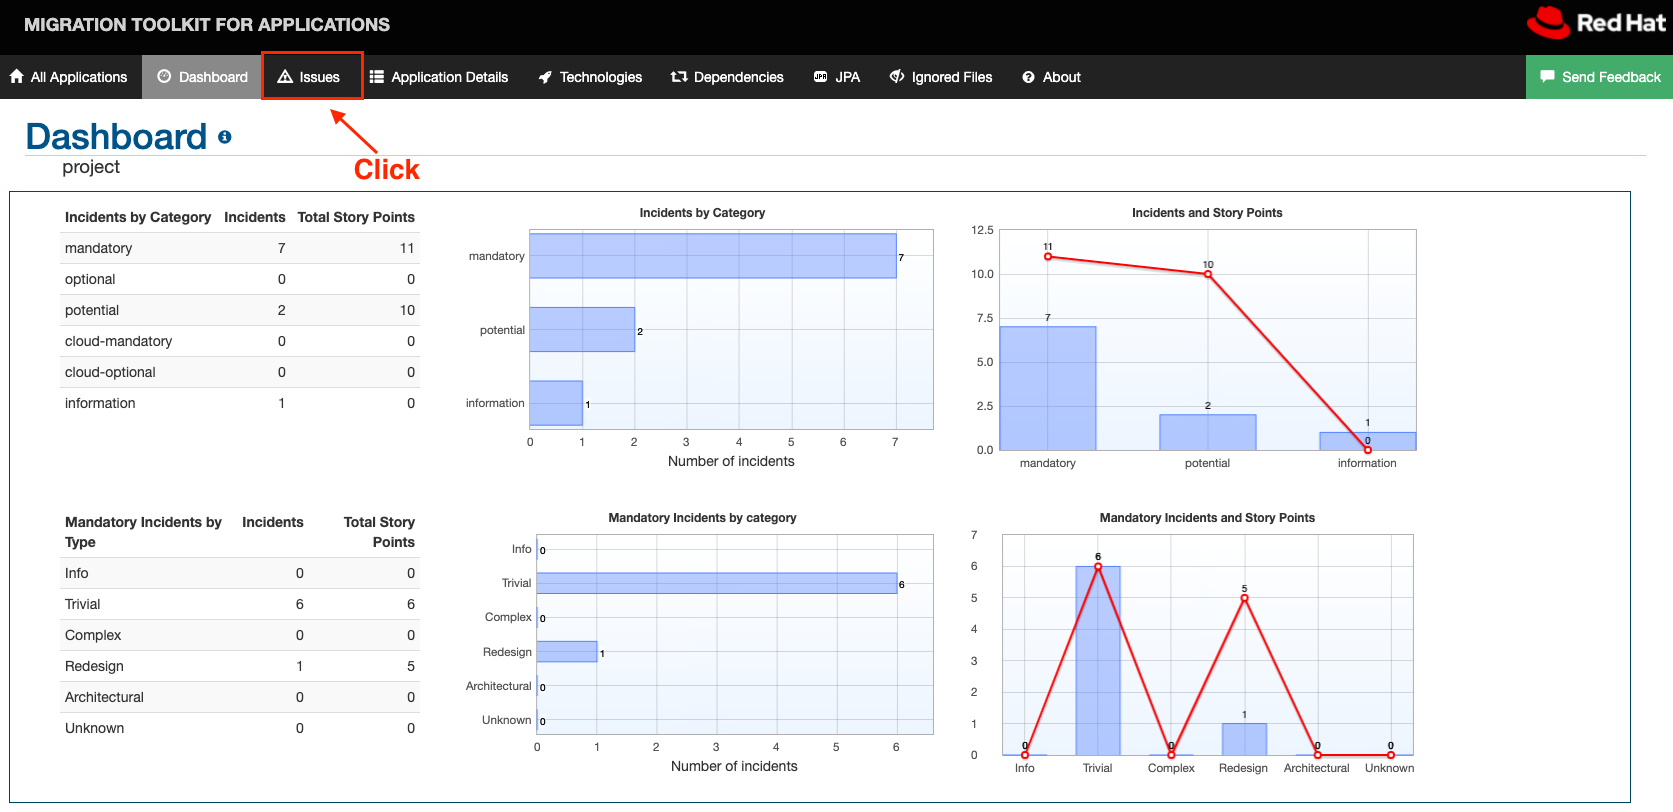
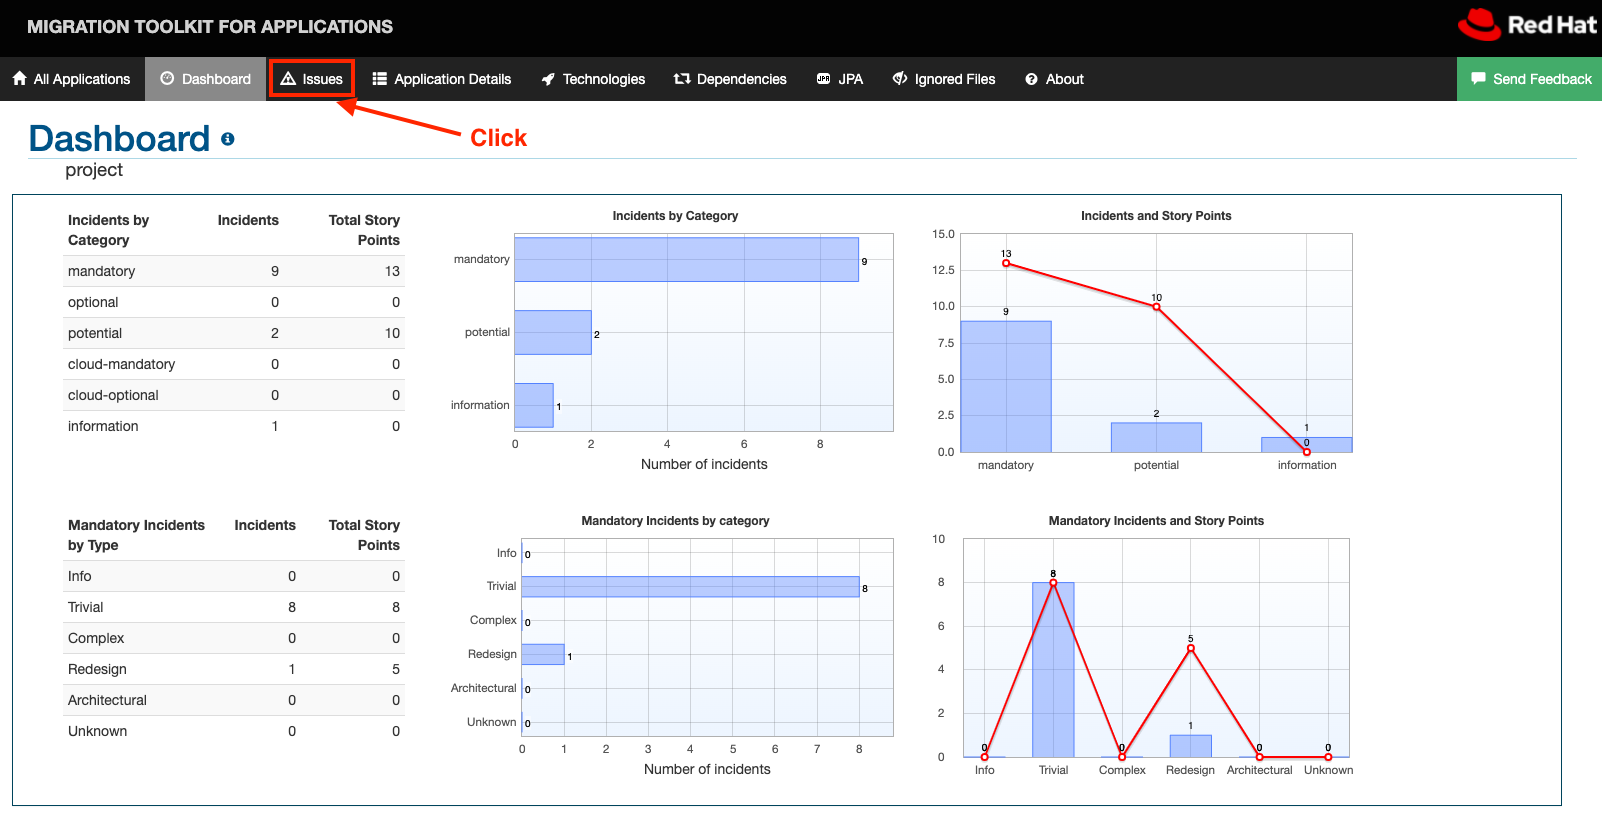
Update MTA config to catch more rules

diff --git a/README.md b/README.md
@@ -148,7 +148,7 @@ While we're in `pom.xml` we may as well fix all the issues related to it.
 
 1. In your editor/IDE, open [`pom.xml`](pom.xml)
 2. Find the `<parent>` section and remove it
-3. In the `<properties>` section, add `<quarkus.platform.version>2.6.1.Final</quarkus.platform.version>`
+3. In the `<properties>` section, add `<quarkus.platform.version>2.6.2.Final</quarkus.platform.version>`
 4. After the `<properties>` section but before the `<dependencies>` section, add the following block:
    ```xml
    <dependencyManagement>
@@ -218,59 +218,26 @@ While we're in `pom.xml` we may as well fix all the issues related to it.
      <artifactId>quarkus-smallrye-openapi</artifactId>
    </dependency>
    ```
-
+   
 8. The next issue is `Replace the Spring Boot Actuator dependency with Quarkus Smallrye Health extension`.
 
    In `pom.xml`, find
-    ```xml
-    <dependency>
-      <groupId>org.springframework.boot</groupId>
-      <artifactId>spring-boot-starter-actuator</artifactId>
-    </dependency>
-    ```
+      ```xml
+      <dependency>
+        <groupId>org.springframework.boot</groupId>
+        <artifactId>spring-boot-starter-actuator</artifactId>
+      </dependency>
+      ```
 
    and, according to the [Quarkus - SmallRye Health Guide](https://quarkus.io/guides/smallrye-health), replace it with
-    ```xml
-    <dependency>
-      <groupId>io.quarkus</groupId>
-      <artifactId>quarkus-smallrye-health</artifactId>
-    </dependency>
-    ```
+      ```xml
+      <dependency>
+        <groupId>io.quarkus</groupId>
+        <artifactId>quarkus-smallrye-health</artifactId>
+      </dependency>
+      ```
 
-9. The next issue is `Spring component spring-boot-starter-test requires investigation`.
-
-   In `pom.xml`, find
-     ```xml
-     <dependency>
-       <groupId>org.springframework.boot</groupId>
-       <artifactId>spring-boot-starter-test</artifactId>
-       <scope>test</scope>
-     </dependency>
-     ```
-
-   and, according to the [Quarkus testing guide](https://quarkus.io/guides/getting-started-testing), replace it with
-     ```xml
-     <dependency>
-       <groupId>io.quarkus</groupId>
-       <artifactId>quarkus-junit5</artifactId>
-       <scope>test</scope>
-     </dependency>
-     ```
-
----
-
-Some issues that weren't caught by the tool but also need to be fixed:
-1. [Starting with Quarkus version 2.5, a user must choose the underlying JAX-RS engine](https://github.com/quarkusio/quarkus/wiki/Migration-Guide-2.5#spring-web). The RESTEasy Reactive extension has better performance than the RESTEasy Classic extension, so we will use that. See [RESTEasy Reactive - To block or not to block](https://quarkus.io/blog/resteasy-reactive-smart-dispatch/), [Massive performance without headaches](https://quarkus.io/blog/resteasy-reactive-faq/), and [A UI thread and a worker thread walk into a bar: a microbenchmark story](https://quarkus.io/blog/io-thread-benchmark/) for more information.
-
-   In `pom.xml`, add the `quarkus-resteasy-reactive-jackson` extension to the `<dependencies>` section:
-   ```xml
-   <dependency>
-     <groupId>io.quarkus</groupId>
-     <artifactId>quarkus-resteasy-reactive-jackson</artifactId>
-   </dependency>
-   ```
-
-3. The `io.micrometer:micrometer-registry-prometheus` dependency. This needs to be swapped for the [Quarkus Micrometer extension](http://quarkus.io/guides/micrometer).
+9. The next issue is `Replace the 'micrometer-registry-prometheus' dependency with Quarkus 'quarkus-micrometer-registry-prometheus' extension`. [Micrometer Metrics](https://micrometer.io/) are used in Quarkus as well as in Spring Boot, but Quarkus applications need to use the [Quarkus Micrometer Metrics Extension](https://quarkus.io/guides/micrometer).
 
    In `pom.xml`, find
    ```xml
@@ -288,26 +255,59 @@ Some issues that weren't caught by the tool but also need to be fixed:
    </dependency>
    ```
 
-4. The `org.postgresql:postgresql` dependency needs to be swapped for the [Quarkus PostgreSQL extension](https://quarkus.io/guides/datasource#jdbc-datasource-2).
+10. The next issue is `Replace the 'postgresql' dependency with Quarkus 'quarkus-jdbc-postgresql' extension`. The `org.postgresql:postgresql` dependency needs to be swapped for the [Quarkus PostgreSQL extension](https://quarkus.io/guides/datasource#jdbc-datasource-2).
 
-   In `pom.xml`, find
-   ```xml
-   <dependency>
-     <groupId>org.postgresql</groupId>
-     <artifactId>postgresql</artifactId>
-     <scope>runtime</scope>
-   </dependency>
-   ```
+    In `pom.xml`, find
+    ```xml
+    <dependency>
+      <groupId>org.postgresql</groupId>
+      <artifactId>postgresql</artifactId>
+      <scope>runtime</scope>
+    </dependency>
+    ```
 
-   and replace it with
+    and replace it with
+    ```xml
+    <dependency>
+      <groupId>io.quarkus</groupId>
+      <artifactId>quarkus-jdbc-postgresql</artifactId>
+    </dependency>
+    ```
+
+11. The next issue is `Spring component spring-boot-starter-test requires investigation`.
+
+    In `pom.xml`, find
+      ```xml
+      <dependency>
+        <groupId>org.springframework.boot</groupId>
+        <artifactId>spring-boot-starter-test</artifactId>
+        <scope>test</scope>
+      </dependency>
+      ```
+
+    and, according to the [Quarkus testing guide](https://quarkus.io/guides/getting-started-testing), replace it with
+      ```xml
+      <dependency>
+        <groupId>io.quarkus</groupId>
+        <artifactId>quarkus-junit5</artifactId>
+        <scope>test</scope>
+      </dependency>
+      ```
+
+---
+
+Some issues that weren't caught by the tool but also need to be fixed:
+1. [Starting with Quarkus version 2.5, a user must choose the underlying JAX-RS engine](https://github.com/quarkusio/quarkus/wiki/Migration-Guide-2.5#spring-web). The RESTEasy Reactive extension has better performance than the RESTEasy Classic extension, so we will use that. See [RESTEasy Reactive - To block or not to block](https://quarkus.io/blog/resteasy-reactive-smart-dispatch/), [Massive performance without headaches](https://quarkus.io/blog/resteasy-reactive-faq/), and [A UI thread and a worker thread walk into a bar: a microbenchmark story](https://quarkus.io/blog/io-thread-benchmark/) for more information.
+
+   In `pom.xml`, add the `quarkus-resteasy-reactive-jackson` extension to the `<dependencies>` section:
    ```xml
    <dependency>
      <groupId>io.quarkus</groupId>
-     <artifactId>quarkus-jdbc-postgresql</artifactId>
+     <artifactId>quarkus-resteasy-reactive-jackson</artifactId>
    </dependency>
    ```
 
-5. The `org.springframework.boot:spring-boot-devtools` isn't needed. The [Spring Boot Developer Tools](https://docs.spring.io/spring-boot/docs/current/reference/html/using.html#using.devtools) provides features aiming to enhance developer productivity, such as live reload. These features are part of the core of Quarkus.
+2. The `org.springframework.boot:spring-boot-devtools` isn't needed. The [Spring Boot Developer Tools](https://docs.spring.io/spring-boot/docs/current/reference/html/using.html#using.devtools) provides features aiming to enhance developer productivity, such as live reload. These features are part of the core of Quarkus.
 
    In `pom.xml`, find
    ```xml
@@ -320,7 +320,7 @@ Some issues that weren't caught by the tool but also need to be fixed:
 
    and remove it
 
-6. The `org.springframework.boot:spring-boot-maven-plugin` needs to be changed so that the application [is built with Quarkus](https://quarkus.io/guides/maven-tooling#build-tool-maven), both for running on the JVM and in native image.
+3. The `org.springframework.boot:spring-boot-maven-plugin` needs to be changed so that the application [is built with Quarkus](https://quarkus.io/guides/maven-tooling#build-tool-maven), both for running on the JVM and in native image.
 
    In `pom.xml`, find
    ```xml
@@ -408,7 +408,7 @@ Some issues that weren't caught by the tool but also need to be fixed:
 
    > **NOTE:** While this replacement might seem like a lot of XML, it also sets up the application to [build a native image](https://quarkus.io/guides/building-native-image) using the `native` Maven profile.
 
-7. A Spring Boot application also contains a "main" class with the `@SpringBootApplication` annotation. A Quarkus application does not have such a class. There are 2 options that can be taken:
+4. A Spring Boot application also contains a "main" class with the `@SpringBootApplication` annotation. A Quarkus application does not have such a class. There are 2 options that can be taken:
    1. Remove the [`src/main/java/com/acme/todo/TodoApplication.java`](src/main/java/com/acme/todo/TodoApplication.java) class
 
    **OR**
@@ -465,7 +465,7 @@ Now let's re-analyze the application to see how much of the migration has been c
    --/ __ \/ / / / _ | / _ \/ //_/ / / / __/
    -/ /_/ / /_/ / __ |/ , _/ ,< / /_/ /\ \   
    --\___\_\____/_/ |_/_/|_/_/|_|\____/___/   
-   INFO  [io.quarkus] (Quarkus Main Thread) spring-to-quarkus-todo 0.0.1-SNAPSHOT on JVM (powered by Quarkus 2.6.1.Final) started in 24.005s. Listening on: http://localhost:8080
+   INFO  [io.quarkus] (Quarkus Main Thread) spring-to-quarkus-todo 0.0.1-SNAPSHOT on JVM (powered by Quarkus 2.6.2.Final) started in 24.005s. Listening on: http://localhost:8080
    INFO  [io.quarkus] (Quarkus Main Thread) Profile dev activated. Live Coding activated.
    INFO  [io.quarkus] (Quarkus Main Thread) Installed features: [agroal, cdi, hibernate-orm, hibernate-orm-panache, jdbc-postgresql, micrometer, narayana-jta, resteasy-reactive, resteasy-reactive-jackson, smallrye-context-propagation, smallrye-health, smallrye-openapi, spring-data-jpa, spring-di, spring-web, swagger-ui, vertx]
 
